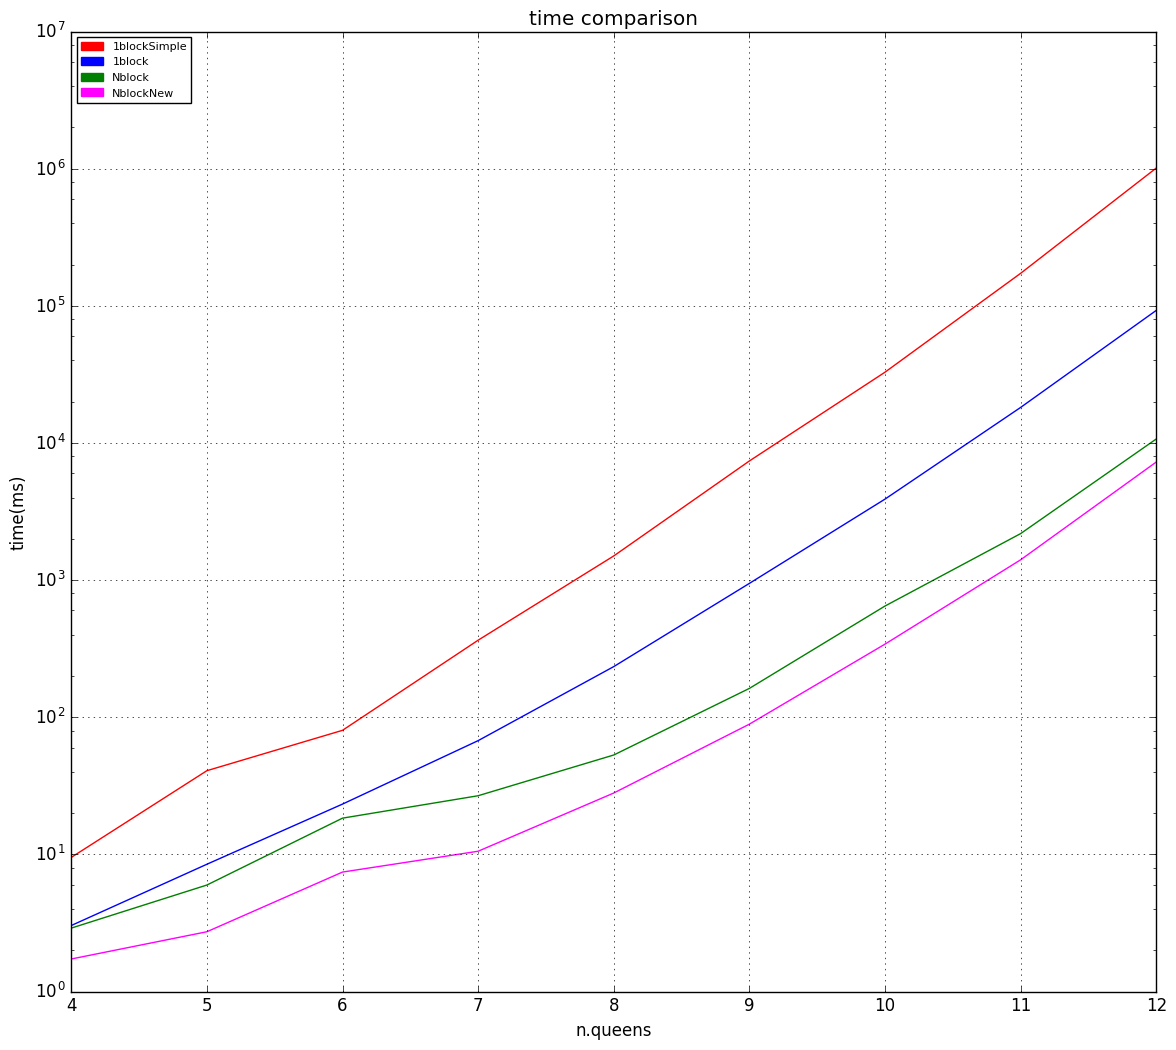
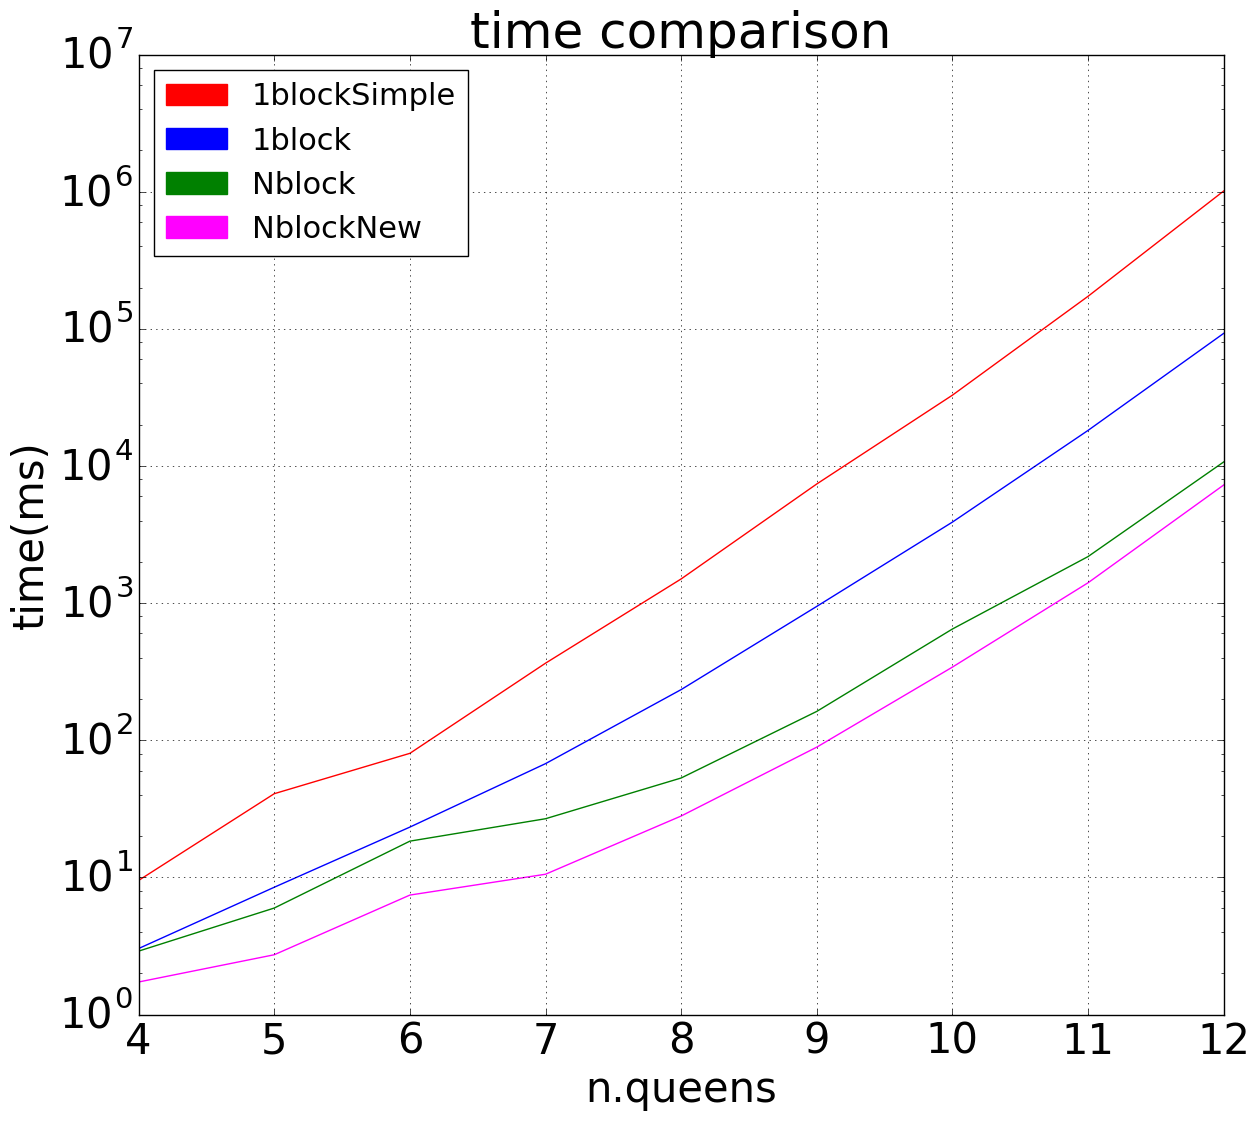
new figures

diff --git a/Analysis/new/DiffBtwVers/CmpAnalysis.py b/Analysis/new/DiffBtwVers/CmpAnalysis.py
@@ -2,7 +2,10 @@ from matplotlib import pyplot
 from pylab import genfromtxt
 import matplotlib.patches as mpatches
 import matplotlib.pyplot as plt
+import matplotlib
 import numpy as np
+
+matplotlib.rcParams.update({'font.size':30})
 
 mat1B = genfromtxt("1Block")
 mat1BS = genfromtxt("1BlockSimple")
@@ -72,7 +75,7 @@ BS = mpatches.Patch(color='blue', label='1block')
 NB = mpatches.Patch(color='green', label='Nblock')
 NBN = mpatches.Patch(color='magenta', label='NblockNew')
 
-plt.legend(handles=[B, BS, NB, NBN],loc=2,prop={'size': 8});
+plt.legend(handles=[B, BS, NB, NBN],loc=2,prop={'size': 22});
 plt.title('time comparison')
 plt.grid(True)
 plt.yscale('log')
